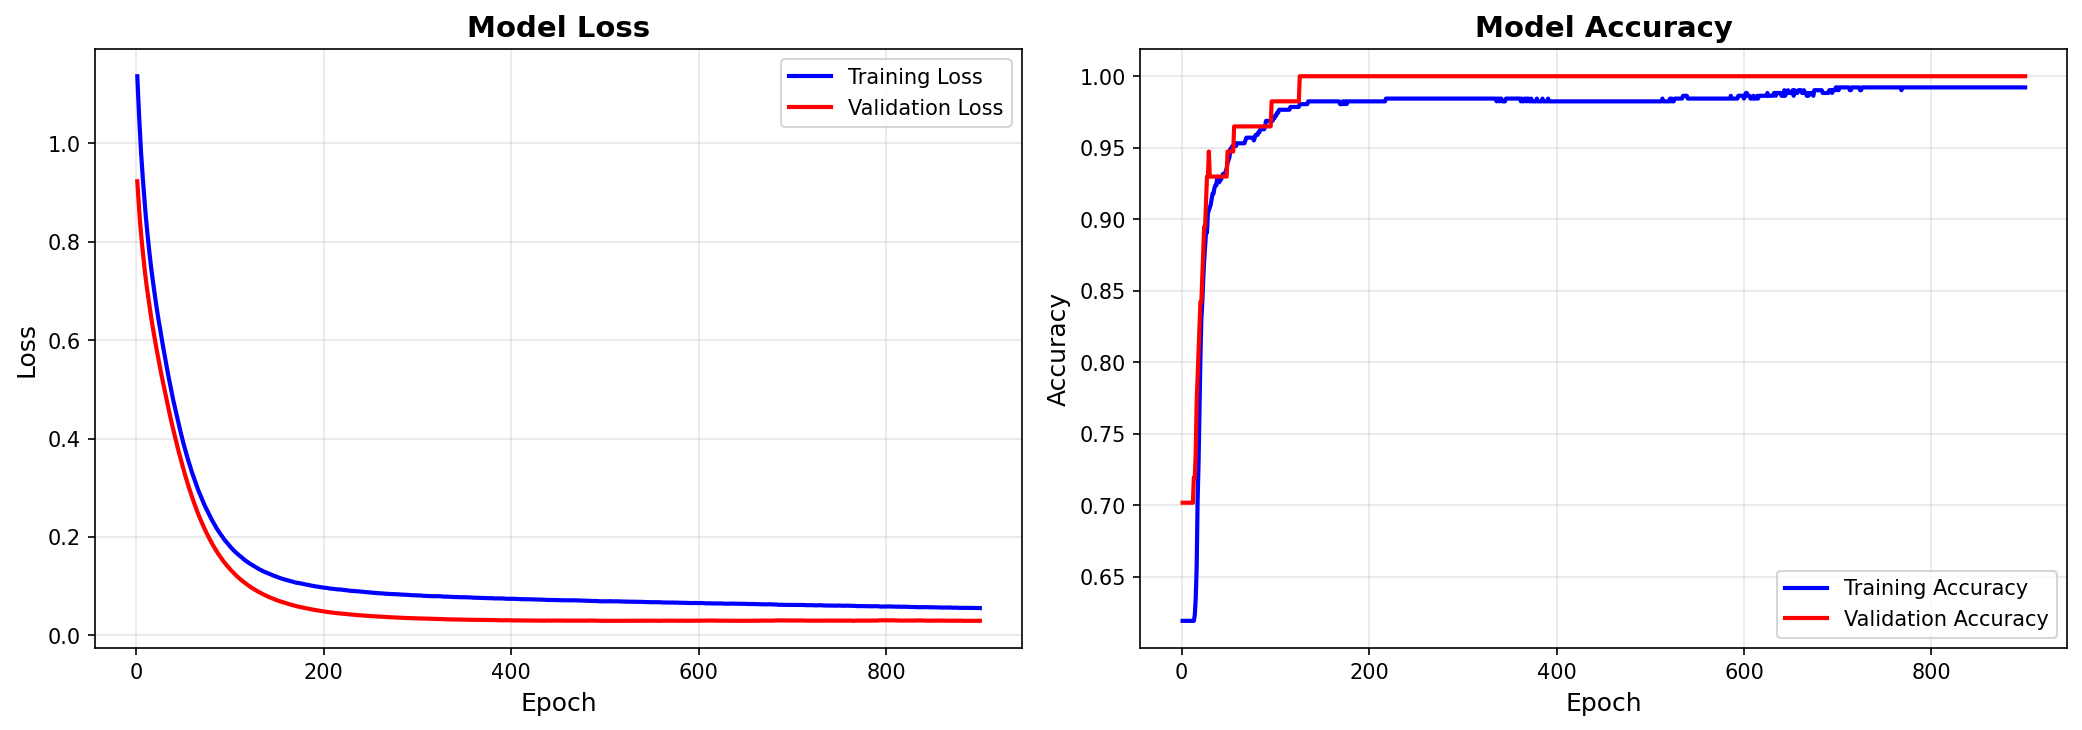
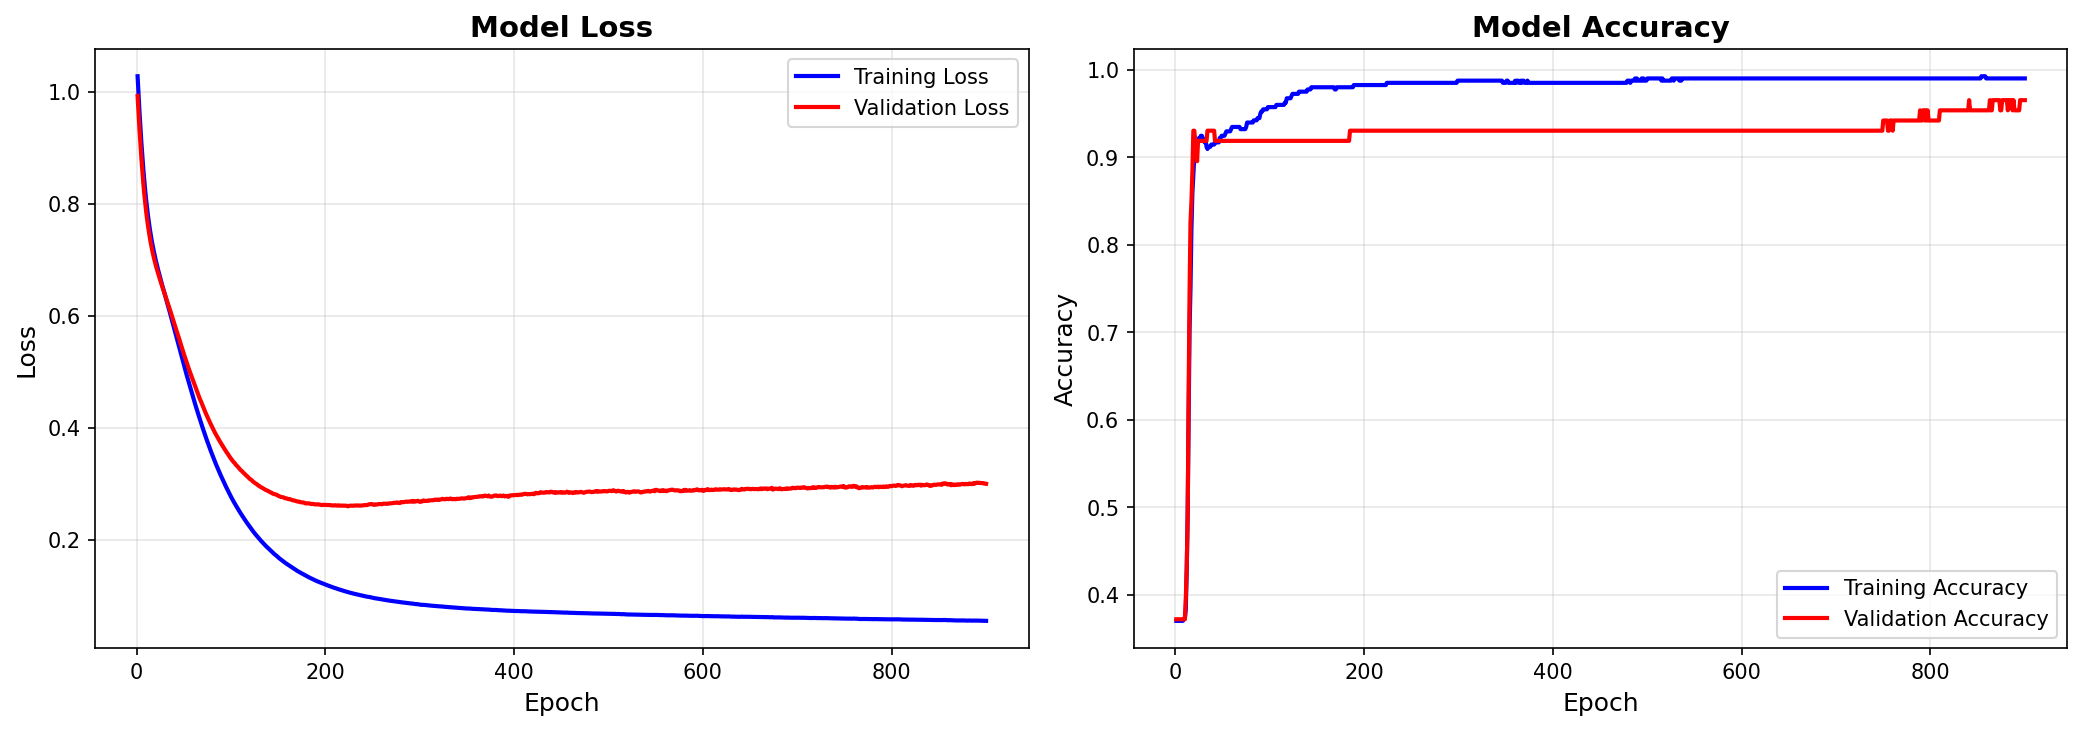
split data in 3 parts: train, validation & test

diff --git a/src/training/DataLoader.py b/src/training/DataLoader.py
@@ -8,11 +8,13 @@ class DataLoader:
         """
         Handles data ingestion, cleaning, splitting, and normalization.
         Args:
-            config: The ModelConfig object containing training_params (test_size, random_state).
+            config: The ModelConfig object containing training_params (test_size, val_size, random_state).
         """
         self.config = config
         self.X_train = None
         self.y_train = None
+        self.X_val = None
+        self.y_val = None
         self.X_test = None
         self.y_test = None
         
@@ -26,30 +28,40 @@ class DataLoader:
     def load_from_csv(self, file_path: str):
         """
         Reads the raw CSV, handles the specific format of the Breast Cancer dataset.
-        Uses split_dataset to split the data into training and validation sets.
+        Performs a 3-way split: Training / Validation / Test
+        - Training: Used to train the model (fit weights)
+        - Validation: Used for early stopping decisions (hyperparameter tuning)
+        - Test: Final evaluation only (never seen during training)
         """
         if not os.path.exists(file_path):
             raise FileNotFoundError(f"Dataset not found at: {file_path}")
 
-        # 1. Split the dataset using the external function
+        # 1. First split: Separate TEST set from the rest
         test_size = self.config.test_size
         random_state = self.config.random_state
-        train_path, validation_path = split_dataset(file_path, test_size, random_state)
+        train_val_path, test_path = split_dataset(file_path, test_size, random_state)
 
-        # 2. Load the split datasets
+        # 2. Second split: Separate TRAINING and VALIDATION sets
+        val_size = self.config.val_size
+        val_size_relative = val_size / (1.0 - test_size)  # Adjust for already removed test set
+        train_path, val_path = split_dataset(train_val_path, val_size_relative, random_state + 1)
+
+        # 3. Load the three split datasets
         self.X_train, self.y_train = self._load_raw_data(train_path)
-        self.X_test, self.y_test = self._load_raw_data(validation_path)
+        self.X_val, self.y_val = self._load_raw_data(val_path)
+        self.X_test, self.y_test = self._load_raw_data(test_path)
 
-        # 3. Normalize
+        # 4. Normalize using ONLY training statistics
         self._normalize()
         
-        # 4. Calculate class weights if needed
+        # 5. Calculate class weights if needed
         self._calculate_class_weights()
 
         print(f"Data Loaded Summary:")
-        print(f"  Training samples: {self.X_train.shape[0]}")
-        print(f"  Test samples:     {self.X_test.shape[0]}")
-        print(f"  Features:         {self.X_train.shape[1]}")
+        print(f"  Training samples:   {self.X_train.shape[0]}")
+        print(f"  Validation samples: {self.X_val.shape[0]}")
+        print(f"  Test samples:       {self.X_test.shape[0]}")
+        print(f"  Features:           {self.X_train.shape[1]}")
         print(f"  Target Distribution (Train): {np.mean(self.y_train):.2%} Malignant")
         
         if self.pos_weight is not None:
@@ -72,13 +84,11 @@ class DataLoader:
             
             parts = line.split(',')
             
-            # SKEPTICAL CHECK: Ensure the row has the expected number of columns
             # ID + Diagnosis + 30 features = 32 columns
             if len(parts) < 32:
                 continue 
 
             # 1. Parse Target (Column 1) -> 'M' is Malignant (1), 'B' is Benign (0)
-            # Column 0 is ID, we discard it as it introduces noise.
             diagnosis = 1 if parts[1] == 'M' else 0
             targets.append(diagnosis)
 
@@ -96,7 +106,8 @@ class DataLoader:
 
     def _normalize(self):
         """
-        Calculate statistics on training data and normalize both train and test sets.
+        Calculate statistics on training data and normalize train, validation, and test sets.
+        Statistics (mean, std) are computed ONLY from training data to avoid data leakage.
         """
         # Calculate Statistics ONLY on Training Data
         self.mean = np.mean(self.X_train, axis=0)
@@ -105,8 +116,9 @@ class DataLoader:
         # Avoid division by zero
         self.std[self.std == 0] = 1e-8
         
-        # Apply Transformation
+        # Apply Transformation to all three sets
         self.X_train = (self.X_train - self.mean) / self.std
+        self.X_val = (self.X_val - self.mean) / self.std
         self.X_test = (self.X_test - self.mean) / self.std
     
     def _calculate_class_weights(self):

diff --git a/src/training/train.py b/src/training/train.py
@@ -7,7 +7,7 @@ import argparse
 from .ModelConfig import ModelConfig
 from .DataLoader import DataLoader
 from .NeuralNetwork import NeuralNetwork
-from ..Utils import BOLD_RED, BOLD_GREEN, BOLD_YELLOW, RESET
+from ..Utils import BOLD_RED, BOLD_GREEN, BOLD_YELLOW, BOLD_MAGENTA, RESET
 
 
 def plot_learning_curves(model, config):
@@ -81,6 +81,7 @@ def train_model(config, dataset_path):
         return one_hot
     
     y_train = to_one_hot(data_loader.y_train)
+    y_val = to_one_hot(data_loader.y_val)
     y_test = to_one_hot(data_loader.y_test)
     
     # Initialize Neural Network
@@ -144,10 +145,10 @@ def train_model(config, dataset_path):
         train_pred = model.forward(data_loader.X_train, training=False)
         train_acc = model.accuracy(y_train, train_pred)
         
-        # Validation metrics
-        val_pred = model.forward(data_loader.X_test, training=False)
-        val_loss = model.categorical_cross_entropy(y_test, val_pred, pos_weight=pos_weight)
-        val_acc = model.accuracy(y_test, val_pred)
+        # Validation metrics (used for early stopping)
+        val_pred = model.forward(data_loader.X_val, training=False)
+        val_loss = model.categorical_cross_entropy(y_val, val_pred, pos_weight=pos_weight)
+        val_acc = model.accuracy(y_val, val_pred)
         
         # Store history
         model.history['train_loss'].append(train_loss)
@@ -168,10 +169,14 @@ def train_model(config, dataset_path):
 
         # Early stopping check
         if model.check_early_stopping(val_loss, epoch + 1):
-            print(f"\n{BOLD_YELLOW}Early stopping triggered at epoch {epoch + 1}{RESET}")
-            print(f"Best validation loss: {model.best_val_loss:.4f}")
+            print(f"\n{BOLD_MAGENTA}Early stopping triggered at epoch {epoch + 1}{RESET}")
             log_file.write(f"\nEarly stopping triggered at epoch {epoch + 1}\n")
-            log_file.write(f"Best validation loss: {model.best_val_loss:.4f}\n")
+            if model.config.restore_best_weights:
+                print(f"Best validation loss: {model.best_val_loss:.4f}")
+                log_file.write(f"validation loss: {model.best_val_loss:.4f}\n")
+            else:
+                print(f"Actual validation loss: {val_loss:.4f}")
+                log_file.write(f"validation loss: {val_loss:.4f}\n")
             break
     
     # Write final summary to log file
@@ -187,6 +192,22 @@ def train_model(config, dataset_path):
     log_file.write(f"Best Validation Accuracy:   {max(model.history['val_acc']):.4f} (epoch {model.history['val_acc'].index(max(model.history['val_acc']))+1})\n")
     log_file.write(f"Lowest Training Loss:       {min(model.history['train_loss']):.4f} (epoch {model.history['train_loss'].index(min(model.history['train_loss']))+1})\n")
     log_file.write(f"Lowest Validation Loss:     {min(model.history['val_loss']):.4f} (epoch {model.history['val_loss'].index(min(model.history['val_loss']))+1})\n")
+    
+    # Final evaluation on TEST set (unseen data)
+    print(f"\n{BOLD_GREEN}Evaluating on test set...{RESET}")
+    test_pred = model.forward(data_loader.X_test, training=False)
+    test_loss = model.categorical_cross_entropy(y_test, test_pred, pos_weight=pos_weight)
+    test_acc = model.accuracy(y_test, test_pred)
+    
+    print(f"{BOLD_GREEN}TEST SET PERFORMANCE:{RESET}")
+    print(f"  Test Loss:     {test_loss:.4f}")
+    print(f"  Test Accuracy: {test_acc:.4f} ({test_acc*100:.2f}%)")
+    
+    log_file.write(f"\n" + "=" * 80 + "\n")
+    log_file.write(f"TEST SET EVALUATION (Final Performance on Unseen Data)\n")
+    log_file.write(f"=" * 80 + "\n")
+    log_file.write(f"Test Loss:     {test_loss:.4f}\n")
+    log_file.write(f"Test Accuracy: {test_acc:.4f} ({test_acc*100:.2f}%)\n")
     log_file.write(f"=" * 80 + "\n")
     
     # Close log file

diff --git a/src/training/ModelConfig.py b/src/training/ModelConfig.py
@@ -43,7 +43,8 @@ class ModelConfig:
         
         self.epochs: int = train_params.get('epochs', 100)
         self.batch_size: int = train_params.get('batch_size', 8)
-        self.test_size: float = train_params.get('test_size', 0.2)
+        self.test_size: float = float(train_params.get('test_size', 0.15))
+        self.val_size: float = float(train_params.get('val_size', 0.15))
         self.random_state: int = train_params.get('random_state', 42)
         
         # Dropout Logic: Check if enabled in architecture, then get rate from training params

diff --git a/src/training/NeuralNetwork.py b/src/training/NeuralNetwork.py
@@ -224,8 +224,8 @@ class NeuralNetwork:
                 layer_state['adam_m_b'] = layer.adam_m_b.copy()
                 layer_state['adam_v_b'] = layer.adam_v_b.copy()
                 layer_state['adam_t'] = layer.adam_t
-        
-        weights_copy.append(layer_state)
+            
+            weights_copy.append(layer_state)
         return weights_copy
     
     def _restore_weights(self, weights_copy):
